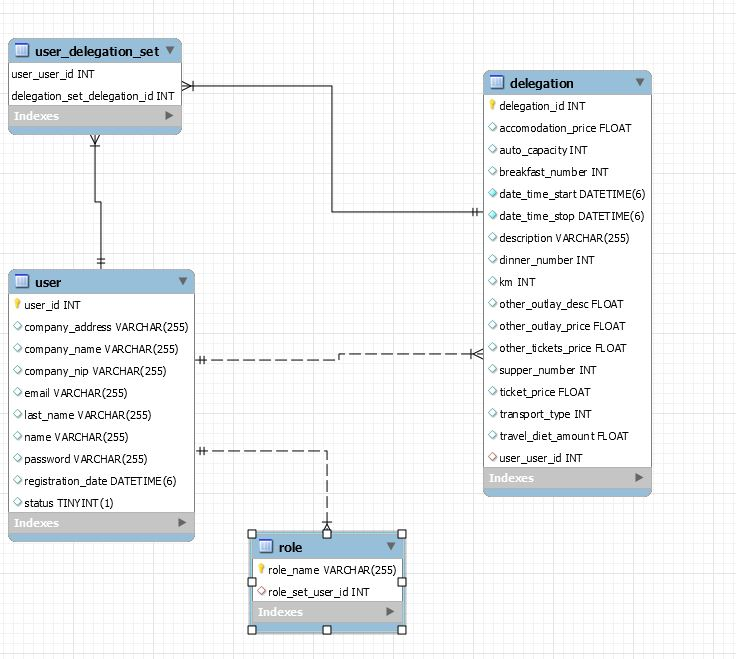
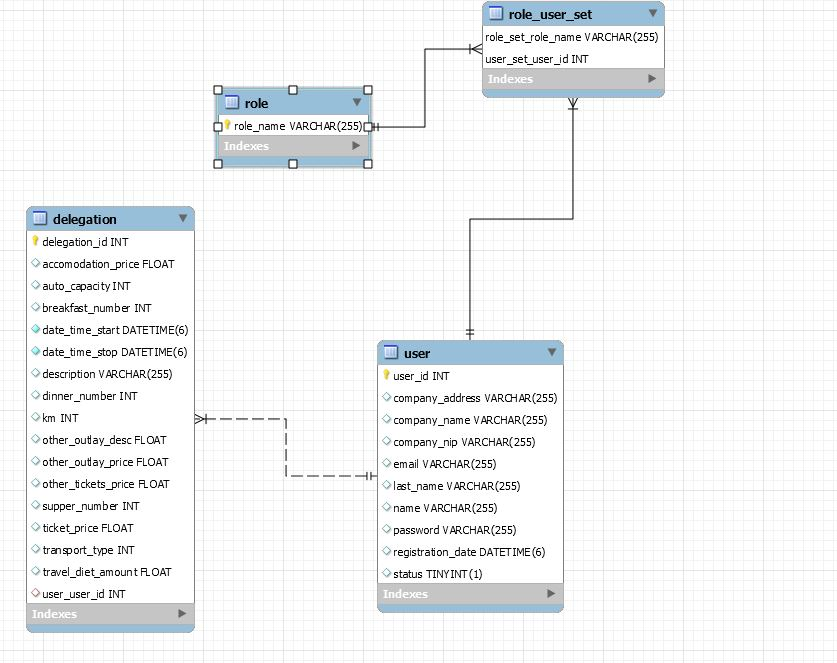
FIX

diff --git a/src/main/java/pss/demo/models/Role.java b/src/main/java/pss/demo/models/Role.java
@@ -3,6 +3,7 @@ package pss.demo.models;
 import lombok.*;
 
 import javax.persistence.*;
+import java.util.Set;
 
 @AllArgsConstructor
 @Getter
@@ -12,4 +13,7 @@ import javax.persistence.*;
 public class Role {
     @Id
     String roleName;
+
+@ManyToMany
+Set<User> userSet;
 }

diff --git a/src/main/java/pss/demo/models/User.java b/src/main/java/pss/demo/models/User.java
@@ -60,11 +60,10 @@ public class User {
     Date registrationDate;
 
 
-    @OneToMany
-    @JoinColumn
+    @ManyToMany(mappedBy = "userSet")
     Set<Role> roleSet;
 
-    @OneToMany
+    @OneToMany(mappedBy = "user")
     Set<Delegation> delegationSet;
 
 
